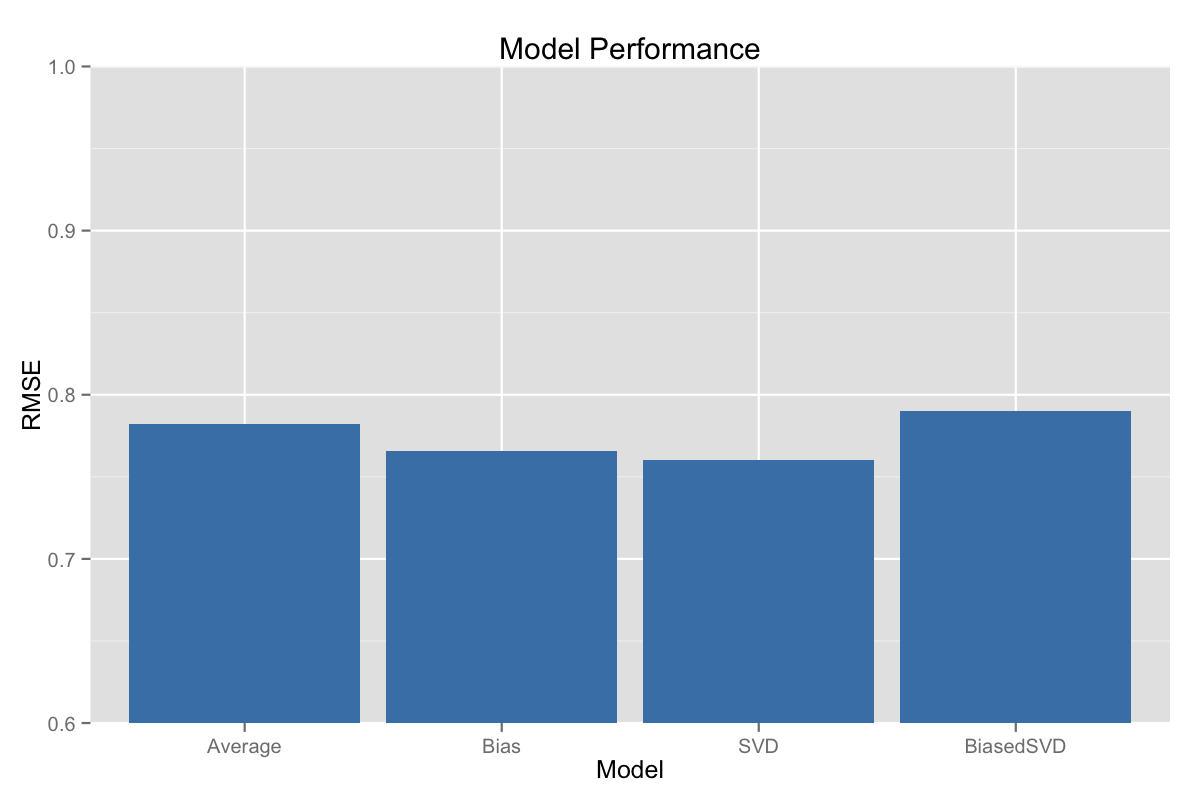
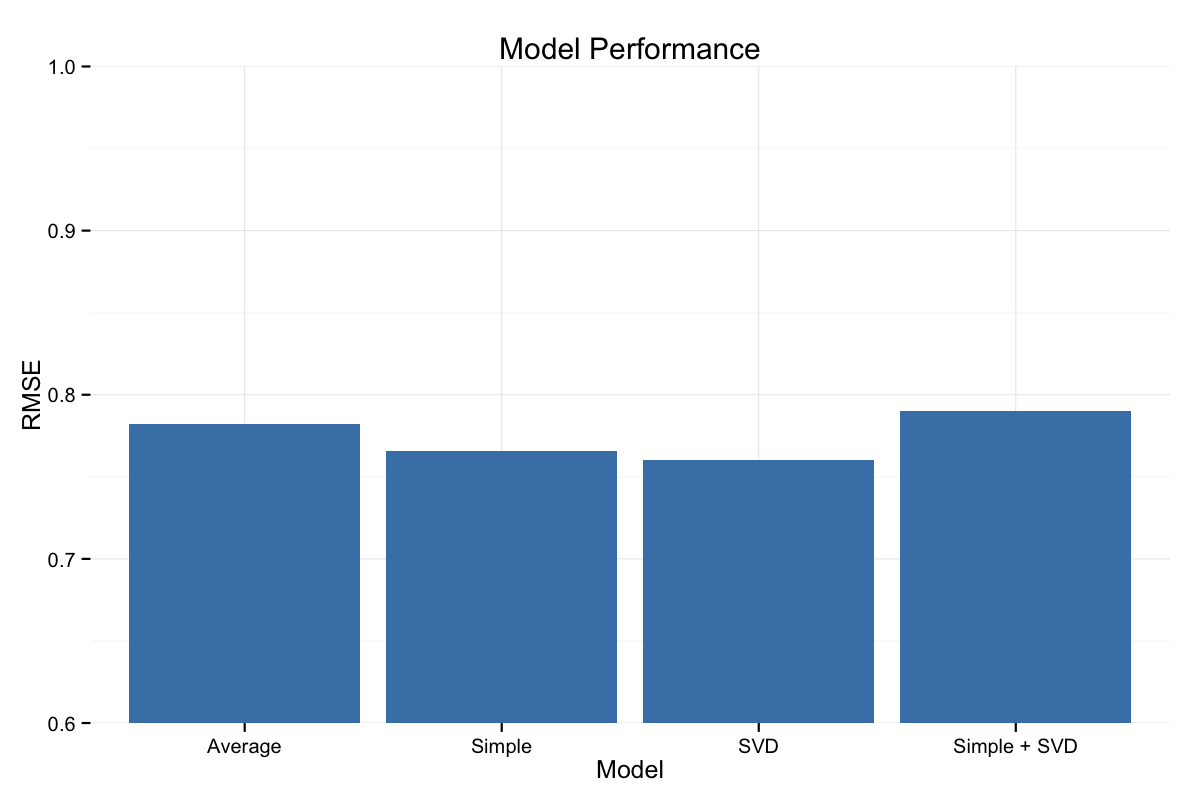
aesthetic changes

diff --git a/data/clean_reviews.py b/data/clean_reviews.py
@@ -8,6 +8,9 @@ import itertools
 from nltk.corpus import stopwords
 
 class Cleaner(object):
+	"""
+	the sql query in get_reviews needs to be customized
+	"""
 	def __init__(self):
 		self.sbstem = SnowballStemmer("english")
 		replace = string.punctuation + string.digits
@@ -34,15 +37,15 @@ class Cleaner(object):
 		self.cached_stopwords.extend(loc_wordlist)
 		return loc_wordlist
 
-def get_reviews(dbname):
+def get_reviews(dbname, qry):
 	with sqlite3.connect(dbname) as conn:
 	    cur = conn.cursor()
 	    # can edit qry to select items with > reviews
-	    qry = """SELECT key, review_text, title, location
-	            FROM reviews
-	            WHERE lang = 'en'
-	            AND country = "Laos"
-	            """
+#	    qry = """SELECT key, review_text, title, location
+#	            FROM reviews
+#	            WHERE lang = 'en'
+#	            AND country != "USA"
+#	            """
 	    cur.execute(qry)
 	    data = cur.fetchall()
 	return data
@@ -61,34 +64,37 @@ def db_insert_text(dbname, text, key):
 	    cur.execute(qry, [text, key])
 	    conn.commit()
 
-#if __name__ == "__main__":
-print "Retrieving Reviews"
-fname = 'mod_trip_advisor.db'
-data = get_reviews(fname)
+"""
+Includes the title + review text
+"""
+if __name__ == "__main__":
+	print "Retrieving Reviews"
+	fname = 'mod_trip_advisor.db'
+	data = get_reviews(fname)
 
-cleaner = Cleaner()
-locations = set([x[3] for x in data])
-cleaner.make_loclist(locations)
-	
-t0 = time.time()
-print "Starting Loop\n"
+	cleaner = Cleaner()
+	locations = set([x[3] for x in data])
+	cleaner.make_loclist(locations)
+		
+	t0 = time.time()
+	print "Starting Loop\n"
 
-subt0 = t0
+	subt0 = t0
 
-for idx, review in enumerate(data):
-	if not idx % 1000:
-		sys.stdout.flush()
-		elapsed = (time.time() - subt0)/60
-		sys.stdout.write('\r idx:{}, elapsed time:{:.2f}min'.format(idx, elapsed))
-		subt0 = time.time()
-	key = review[0]
-	review_text = review[1]
-	title = review[2]
+	for idx, review in enumerate(data):
+		if not idx % 1000:
+			sys.stdout.flush()
+			elapsed = (time.time() - subt0)/60
+			sys.stdout.write('\r idx:{}, elapsed time:{:.2f}min'.format(idx, elapsed))
+			subt0 = time.time()
+		key = review[0]
+		review_text = review[1]
+		title = review[2]
 
-	text = review_text + title
+		text = review_text + title
 
-	cleaned = cleaner.clean(text)
-	db_insert_text(fname, cleaned, key)
+		cleaned = cleaner.clean(text)
+		db_insert_text(fname, cleaned, key)
 
-print "total time: {:.2f}mins".format((time.time()-t0)/60)
+	print "total time: {:.2f}mins".format((time.time()-t0)/60)
 
